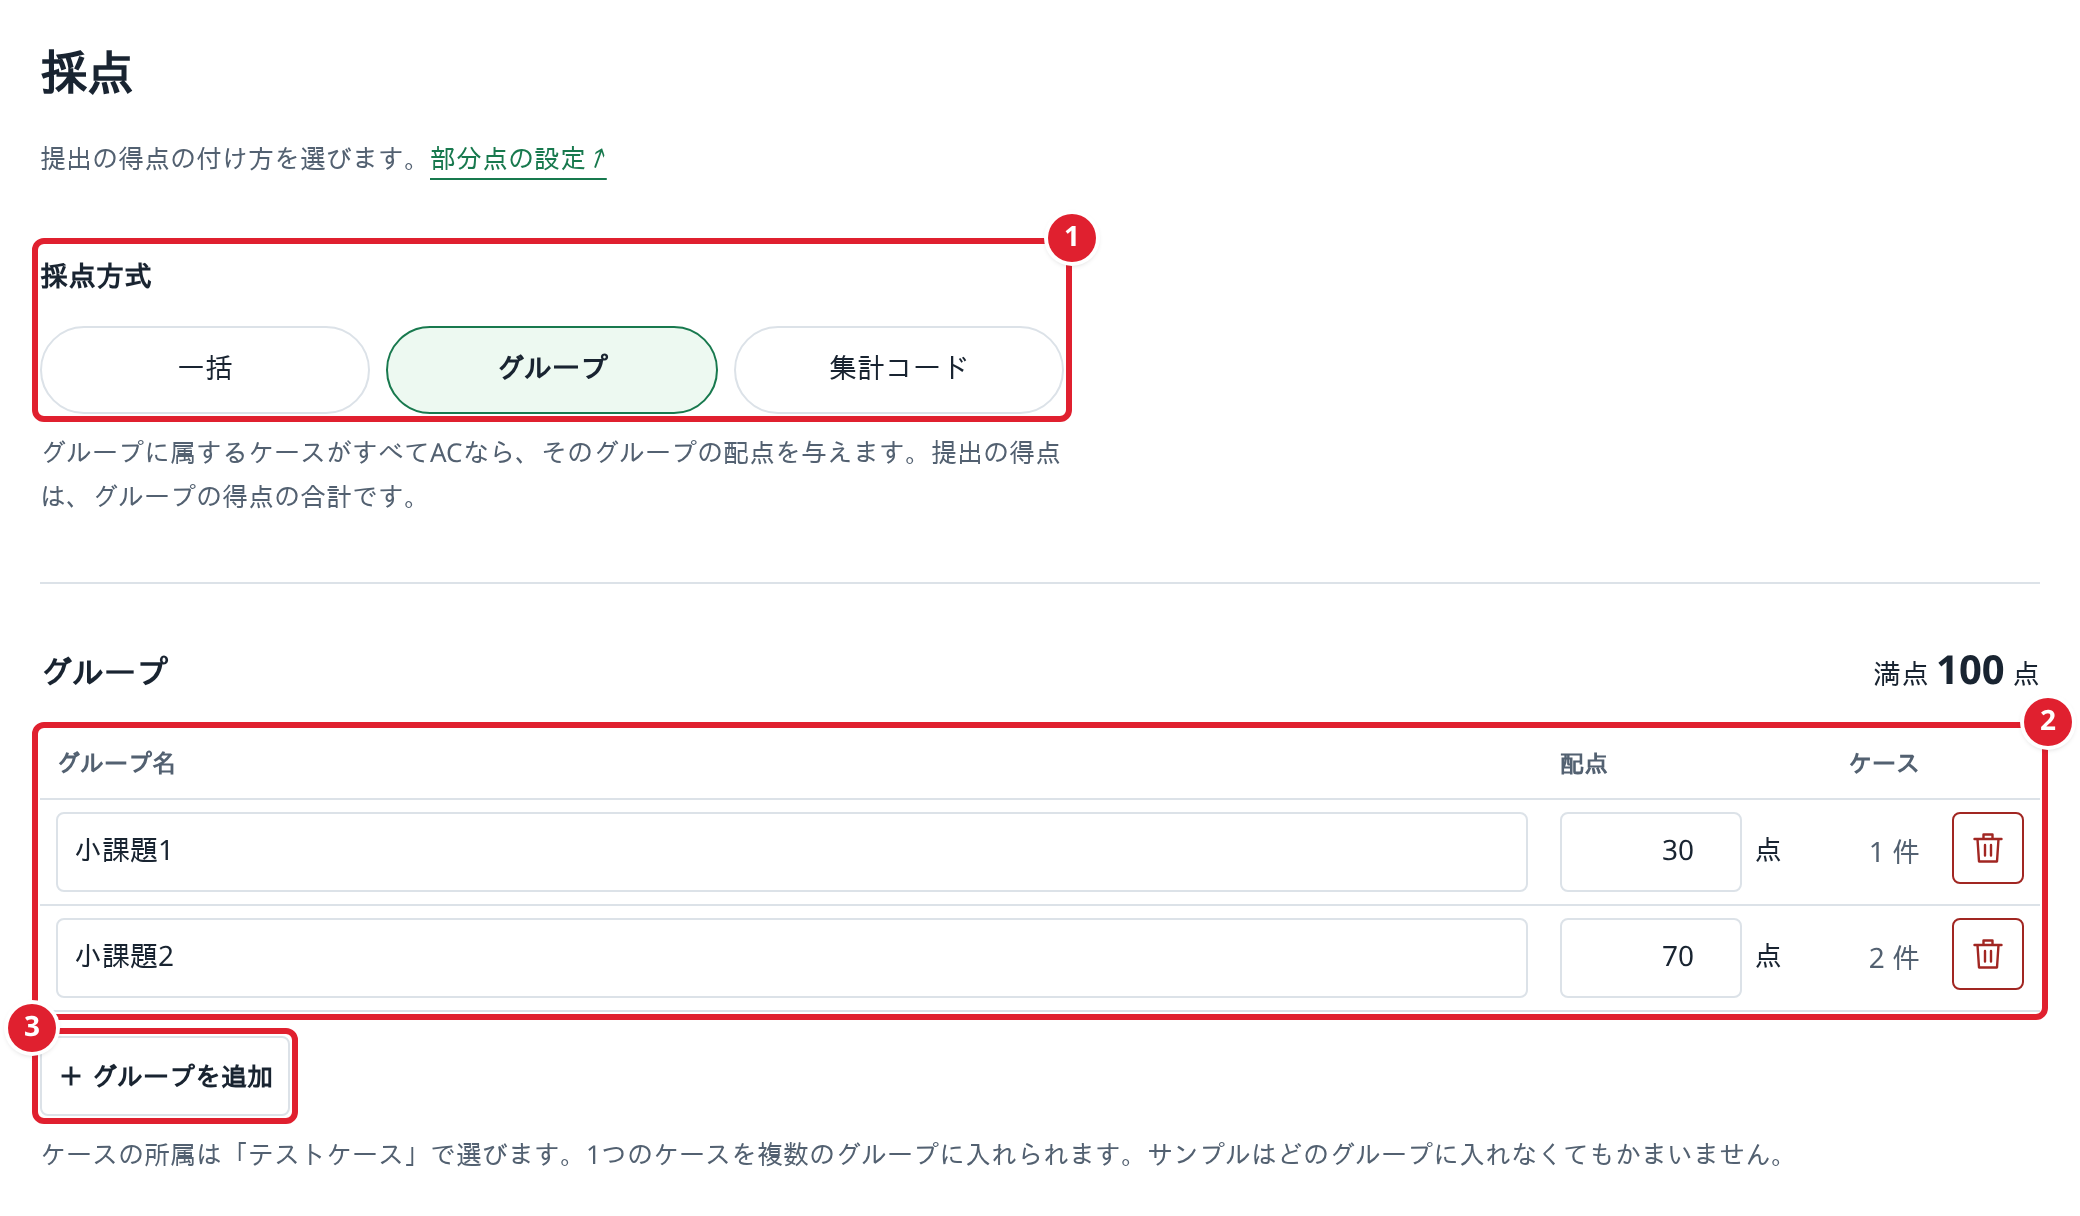
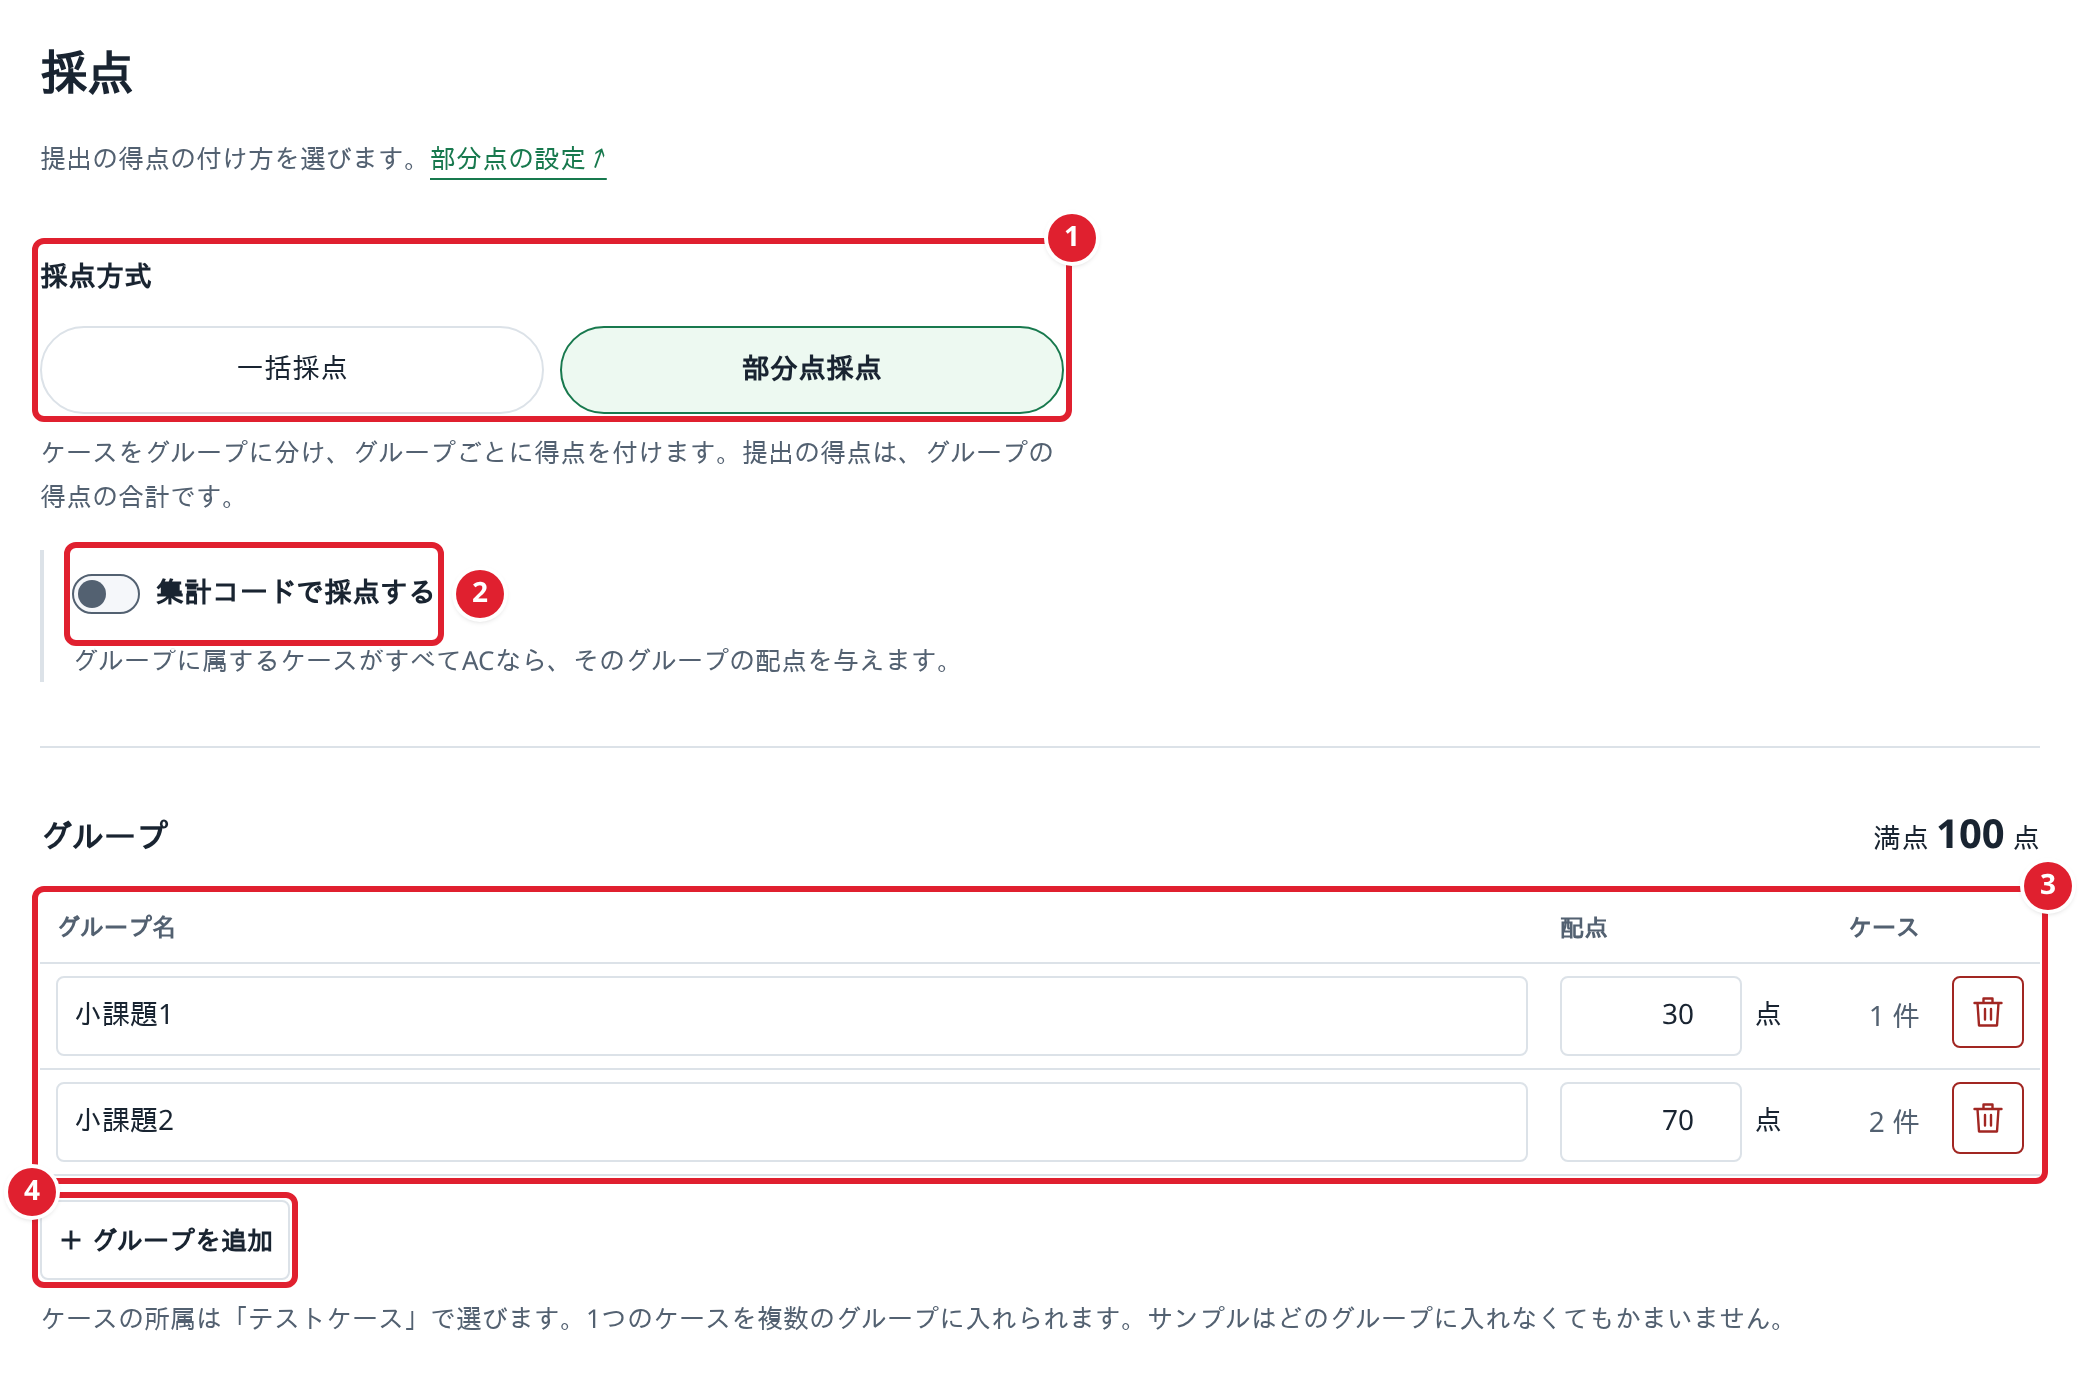
docs: ガイドとREADMEの採点方式を「一括採点」と「部分点採点」、「集計コードで採点する」に合わせ、採点の画面の写真を撮り直す

diff --git a/web/docs-screenshots/guides.spec.ts b/web/docs-screenshots/guides.spec.ts
@@ -81,17 +81,19 @@ test('test cases', async ({ page }) => {
 })
 
 test('scoring', async ({ page }) => {
-  await page.setViewportSize({ width: 1200, height: 760 })
+  await page.setViewportSize({ width: 1200, height: 860 })
   // A subtask problem: the samples stay out of the groups, and the largest case counts in both (ADR 0025).
   await savedProblem(page, { draft: {
     scoring: { mode: 'groups', groups: [{ name: '小課題1', points: 30 }, { name: '小課題2', points: 70 }] },
     testCases: [...draft.testCases.slice(0, 2), { ...draft.testCases[2], groups: ['小課題2'] }, { name: 'small_1', input: '1 2\n', output: '3\n', isSample: false, groups: ['小課題1', '小課題2'] }],
   } })
   await page.getByRole('button', { name: '採点', exact: true }).click()
-  const modes = page.getByRole('group', { name: '採点方式' })
-  await expect(modes.getByRole('radio', { name: 'グループ', exact: true })).toBeChecked()
+  const methods = page.getByRole('group', { name: '採点方式' })
+  await expect(methods.getByRole('radio', { name: '部分点採点' })).toBeChecked()
+  await expect(page.getByRole('switch', { name: '集計コードで採点する' })).not.toBeChecked()
   await annotate(page, [
-    { target: modes, badge: 'top-right' },
+    { target: methods, badge: 'top-right' },
+    { target: page.locator('.scoring-switch'), badge: 'right' },
     { target: page.locator('.scoring-groups'), badge: 'top-right' },
     page.getByRole('button', { name: 'グループを追加' }),
   ])

diff --git a/web/app/content/docs/authoring.md b/web/app/content/docs/authoring.md
@@ -13,7 +13,7 @@
 | ①問題文 | タイトル、難易度、実行時間制限、メモリ制限、タグ、本文 |
 | ②テストケース | 採点に使う入力と期待される出力 |
 | ③生成・検証・判定 | テストケースを作るコード、入力の検証、判定方法 |
-| ④採点 | 一括で採点するか、[部分点](#scoring)を付けるか |
+| ④採点 | 一括採点か[部分点採点](#scoring)か |
 | ⑤解説 | 問題ページの「解説」タブに表示する文章 |
 | ⑥問題管理 | 公開できるかの確認、テスターの招待、リジャッジ、問題の削除 |
 
@@ -42,20 +42,18 @@
 
 ## 部分点 {#scoring}
 
-![採点の画面。①採点方式、②グループの名前と配点、③グループを追加](/images/docs/problem-scoring.png)
+![採点の画面。①採点方式、②集計コードで採点する、③グループの名前と配点、④グループを追加](/images/docs/problem-scoring.png)
 
 「採点」の①で採点方式を選びます。
+「一括採点」は、すべてのケースでACなら満点で、部分点はありません。
+「部分点採点」は、ケースをグループに分け、グループの得点の合計を提出の得点にします。
+グループの得点は、属するケースがすべてACなら配点、そうでなければ0点です。
+②「集計コードで採点する」をオンにすると、[集計コード](/docs/checkers#aggregator)がケースの判定と点からグループの得点を決めます。
 
-| 採点方式 | 得点の決め方 |
-| --- | --- |
-| 一括 | すべてのケースでACなら満点です。部分点はありません。 |
-| グループ | グループに属するケースがすべてACなら、そのグループの配点を与えます。 |
-| 集計コード | [集計コード](/docs/checkers#aggregator)が、ケースの判定と点からグループごとの得点を決めます。 |
-
-②でグループの名前と配点を決め、③でグループを足します。
+③でグループの名前と配点を決め、④でグループを足します。
 満点は配点の合計で、1〜1,000,000点にします。
 ケースは「テストケース」の「所属するグループ」で選び、複数のグループに入れられます。
-コンテストに入れた問題は、開始後に採点方式とグループの名前・配点・順番を変えられません。
+コンテストに入れた問題は、開始後に採点方式、集計コードで採点するかどうか、グループの名前・配点・順番を変えられません。
 
 ## 保存する {#save}
 
@@ -81,7 +79,7 @@
 - テストケース1件以上
 - 解説
 - スペシャルジャッジかインタラクティブでは、ジャッジで使える言語の判定コード
-- 部分点の問題では、グループ1つ以上、各グループにケース1件以上、サンプル以外のすべてのケースの所属。集計コード方式では、ジャッジで使える言語の集計コード
+- 部分点採点では、グループ1つ以上、各グループにケース1件以上、サンプル以外のすべてのケースの所属。集計コードで採点するなら、ジャッジで使える言語の集計コード
 
 公開中の問題と、結果が確定する前のコンテストに入っている問題を保存するときにも、これらが必要です。
 

diff --git a/web/app/content/docs/checkers.md b/web/app/content/docs/checkers.md
@@ -25,7 +25,7 @@
 - 第1引数：テストケースの入力ファイル
 - 第2引数：期待される出力のファイル（空でもかまいません）
 - 第3引数：提出のソースコードのファイル
-- 第4引数：スコアのファイル（[集計コード方式](#aggregator)の問題でだけ読みます）
+- 第4引数：スコアのファイル（「[集計コードで採点する](#aggregator)」をオンにした問題でだけ読みます）
 
 終了コードが0なら正解、それ以外なら不正解です。
 異常終了した場合も不正解になり、標準出力の内容は使いません。
@@ -87,7 +87,7 @@ int main(int argc, char** argv) {
 ```
 
 `_ok`はAC、`_wa`、`_pe`、`_dirt`、`_unexpected_eof`はWA、`_fail`はJEです。
-`quitp`は[集計コード方式](#aggregator)の問題でだけ使え、`_pc`には対応していません。
+`quitp`は「[集計コードで採点する](#aggregator)」をオンにした問題でだけ使え、`_pc`には対応していません。
 現行形式と違い、判定コードが異常終了した場合はJEになります。
 `tout`の内容を別のcheckerで判定する処理はないので、interactor自身で正誤を決めてください。
 
@@ -106,7 +106,7 @@ Rubyで解くときの注意は、[使える言語と実行環境の仕様](/doc
 
 ## 集計コード {#aggregator}
 
-[集計コード方式](/docs/authoring#scoring)の問題では、判定コードがケースごとに整数の点を返せます。
+[部分点採点](/docs/authoring#scoring)で「集計コードで採点する」をオンにした問題では、判定コードがケースごとに整数の点を返せます。
 現行形式では、ACかWAのケースでスコアのファイルに書いた0〜$10^{18}$の整数を読みます。
 空なら点なしで、それ以外の内容は提出全体がJEになります。
 testlib形式では、`quitp`に0〜1,000,000の整数を渡すと、ACとしてその点を付けます。
